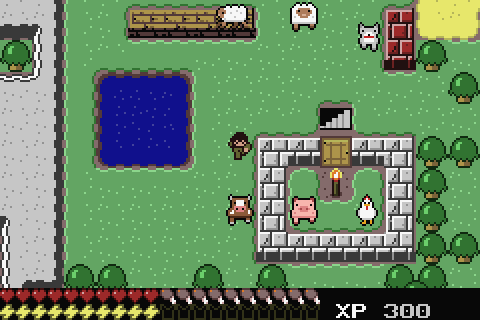
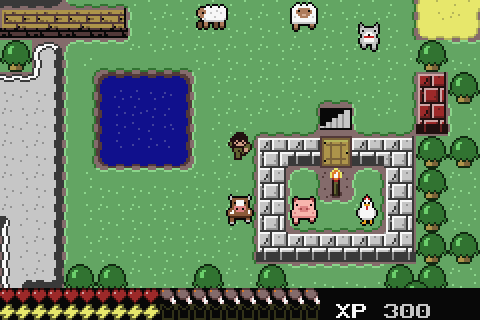
Screenshots: keep the walls clear of the animals

Changed region(s): [[0.0, 0.0, 0.5625, 0.1562], [0.7812, 0.0, 0.9688, 0.4375]]

diff --git a/tools/test/screenshots.py b/tools/test/screenshots.py
@@ -140,8 +140,10 @@ def build_scene():
             edge = dx in (0, 4) or dy in (1, 4)
             house.append(T(dx, dy, 25 if edge else 0))
     house += [T(2, 1, 27), T(2, 2, 33)]  # door, torch inside
-    house += [T(dx, -3, 24) for dx in range(-4, 0)]   # planks wall
-    house += [T(4, -3, 26), T(4, -2, 26)]             # clay pillar
+    # away from the animals the debug kit puts at y -3 and +3 (x -1..3),
+    # so none wanders against a wall before the shot
+    house += [T(dx, -3, 24) for dx in range(-8, -4)]  # planks wall
+    house += [T(5, -1, 26), T(5, 0, 26)]              # clay pillar
     house += [f'set *(unsigned short *) ($pl + 2) = (($px - 1) << 4) + 8',
               f'set *(unsigned short *) ($pl + 4) = (($py + 1) << 4) + 8']
     s.at(5, *house)
